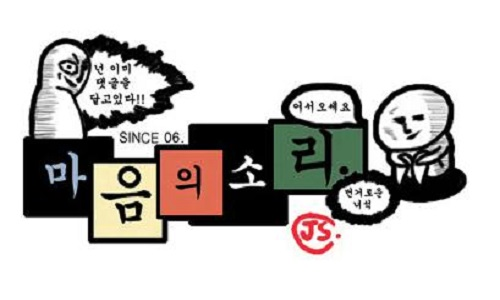
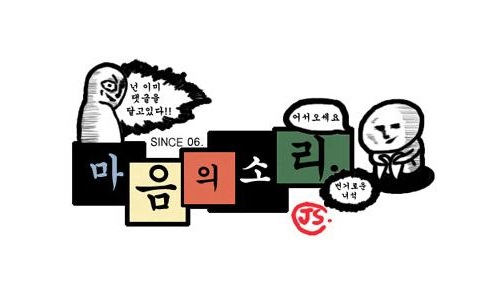
상세보기 이미지 나오게 수정

diff --git a/Integrated_project_ver5/src/mypkg/dao/WebtoonDAO.java b/Integrated_project_ver5/src/mypkg/dao/WebtoonDAO.java
@@ -50,7 +50,7 @@ public class WebtoonDAO {
 			String sql = "select g.genres_name, w.webtoons_title, w.webtoons_summary, "
 					+ "w.webtoons_update_days, w.webtoons_completed, w.webtoons_viewfree, "
 					+ "w.webtoons_professional, w.webtoons_pgrating, w.webtoons_publisher, "
-					+ "w.webtoons_average_rate, w.webtoons_title_image, w.webtoons_url, "
+					+ "w.webtoons_average_rate, w.webtoons_details_image, w.webtoons_url, "
 					+ "w.webtoons_first_update, uwm.user_webtoon_rate "
 					+ "from webtoons w inner join genres g on w.genre_id_fk = g.genres_id_pk "
 					+ "inner join user_webtoon_maps as uwm on uwm.webtoons_id_fk = w.webtoons_id_pk "
@@ -81,7 +81,7 @@ public class WebtoonDAO {
 			String webtoons_publisher = rset.getString("webtoons_publisher");
 			double webtoons_average_rate = rset
 					.getDouble("webtoons_average_rate");
-			String webtoons_title_image = rset.getString("webtoons_title_image");
+			String webtoons_details_image = rset.getString("webtoons_details_image");
 			String webtoons_url = rset.getString("webtoons_url");
 			String webtoons_first_update = rset
 					.getString("webtoons_first_update");
@@ -106,7 +106,7 @@ public class WebtoonDAO {
 					webtoons_title, webtoons_summary, webtoons_update_days,
 					webtoons_completed, webtoon_viewfree, webtoon_professional,
 					webtoons_pgrating, webtoons_publisher,
-					webtoons_average_rate, webtoons_title_image, webtoons_url,
+					webtoons_average_rate, webtoons_details_image, webtoons_url,
 					webtoons_first_update, user_webtoon_rate);
 		} catch (SQLException e) {
 			e.printStackTrace();
@@ -129,7 +129,8 @@ public class WebtoonDAO {
 		WebtoonVO webtoonInfo = null;
 		Connection conn = null;
 		Statement stmt = null;
-
+		
+		System.out.println("여기 들어와???");
 		try {
 			conn = pool.getConnection();
 			stmt = conn.createStatement();

diff --git a/Integrated_project_ver5/src/mypkg/vo/WebtoonVO.java b/Integrated_project_ver5/src/mypkg/vo/WebtoonVO.java
@@ -111,7 +111,7 @@ public class WebtoonVO implements Serializable {
 			String webtoons_update_days, String webtoons_completed,
 			String webtoon_viewfree, String webtoon_professional,
 			String webtoons_pgrating, String webtoons_publisher,
-			double webtoons_average_rate, String webtoons_title_image,
+			double webtoons_average_rate, String webtoons_details_image,
 			String webtoons_url, String webtoons_first_update,
 			int user_webtoon_rate) {
 		this.webtoons_id_pk = webtoon_id_pk;
@@ -125,7 +125,7 @@ public class WebtoonVO implements Serializable {
 		this.webtoons_pgrating = webtoons_pgrating;
 		this.webtoons_publisher = webtoons_publisher;
 		this.webtoons_average_rate = webtoons_average_rate;
-		this.webtoons_title_image = webtoons_title_image;
+		this.webtoons_details_image = webtoons_details_image;
 		this.webtoons_url = webtoons_url;
 		this.webtoons_first_update = webtoons_first_update;
 		this.webtoon_rate = user_webtoon_rate;
